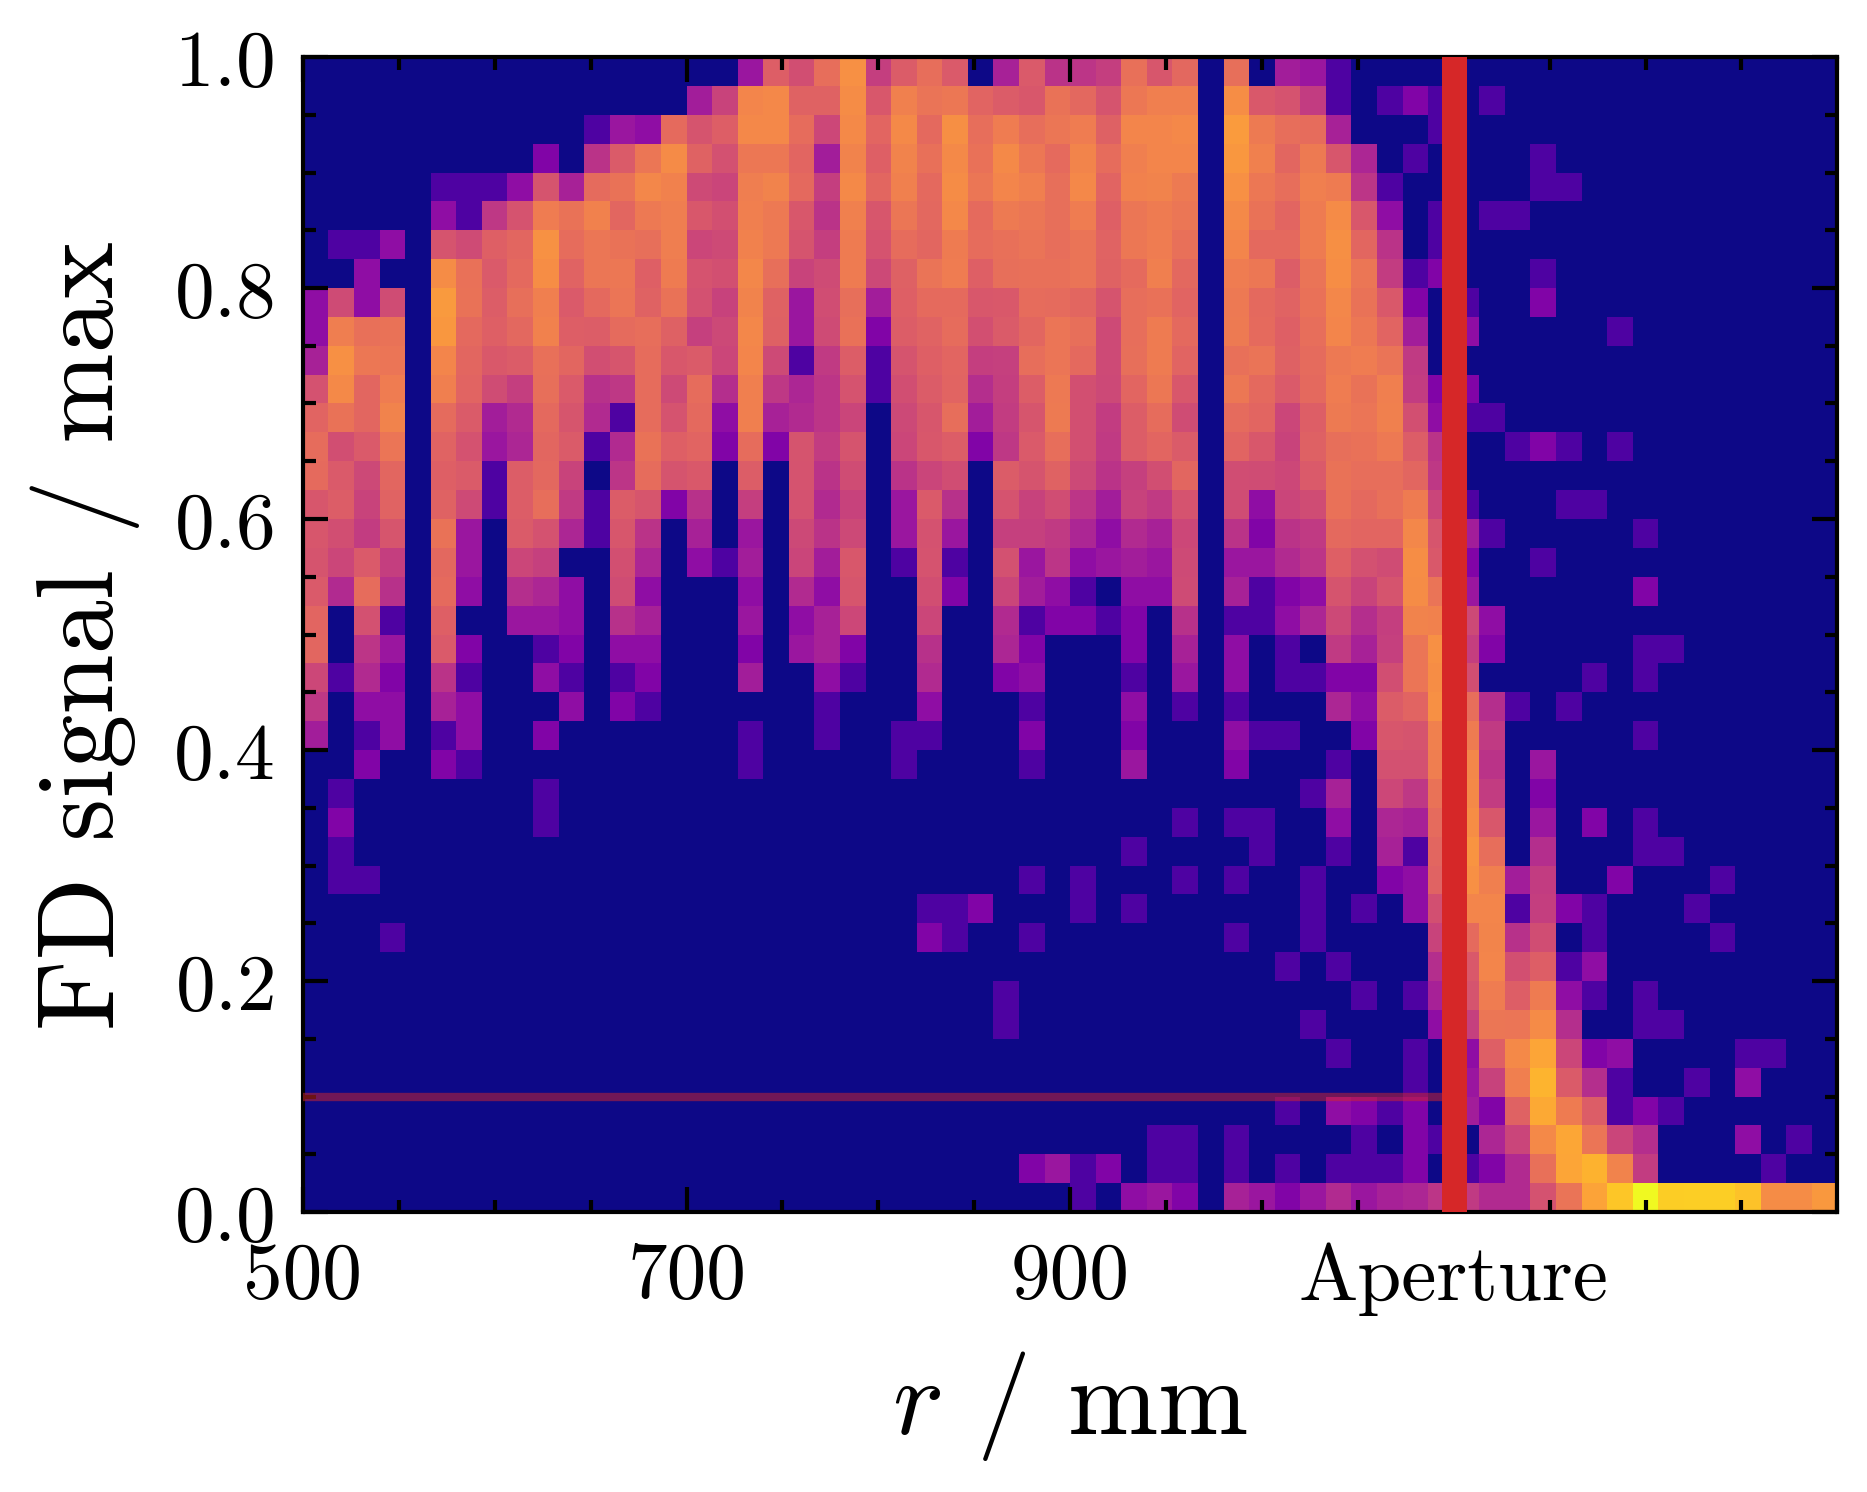
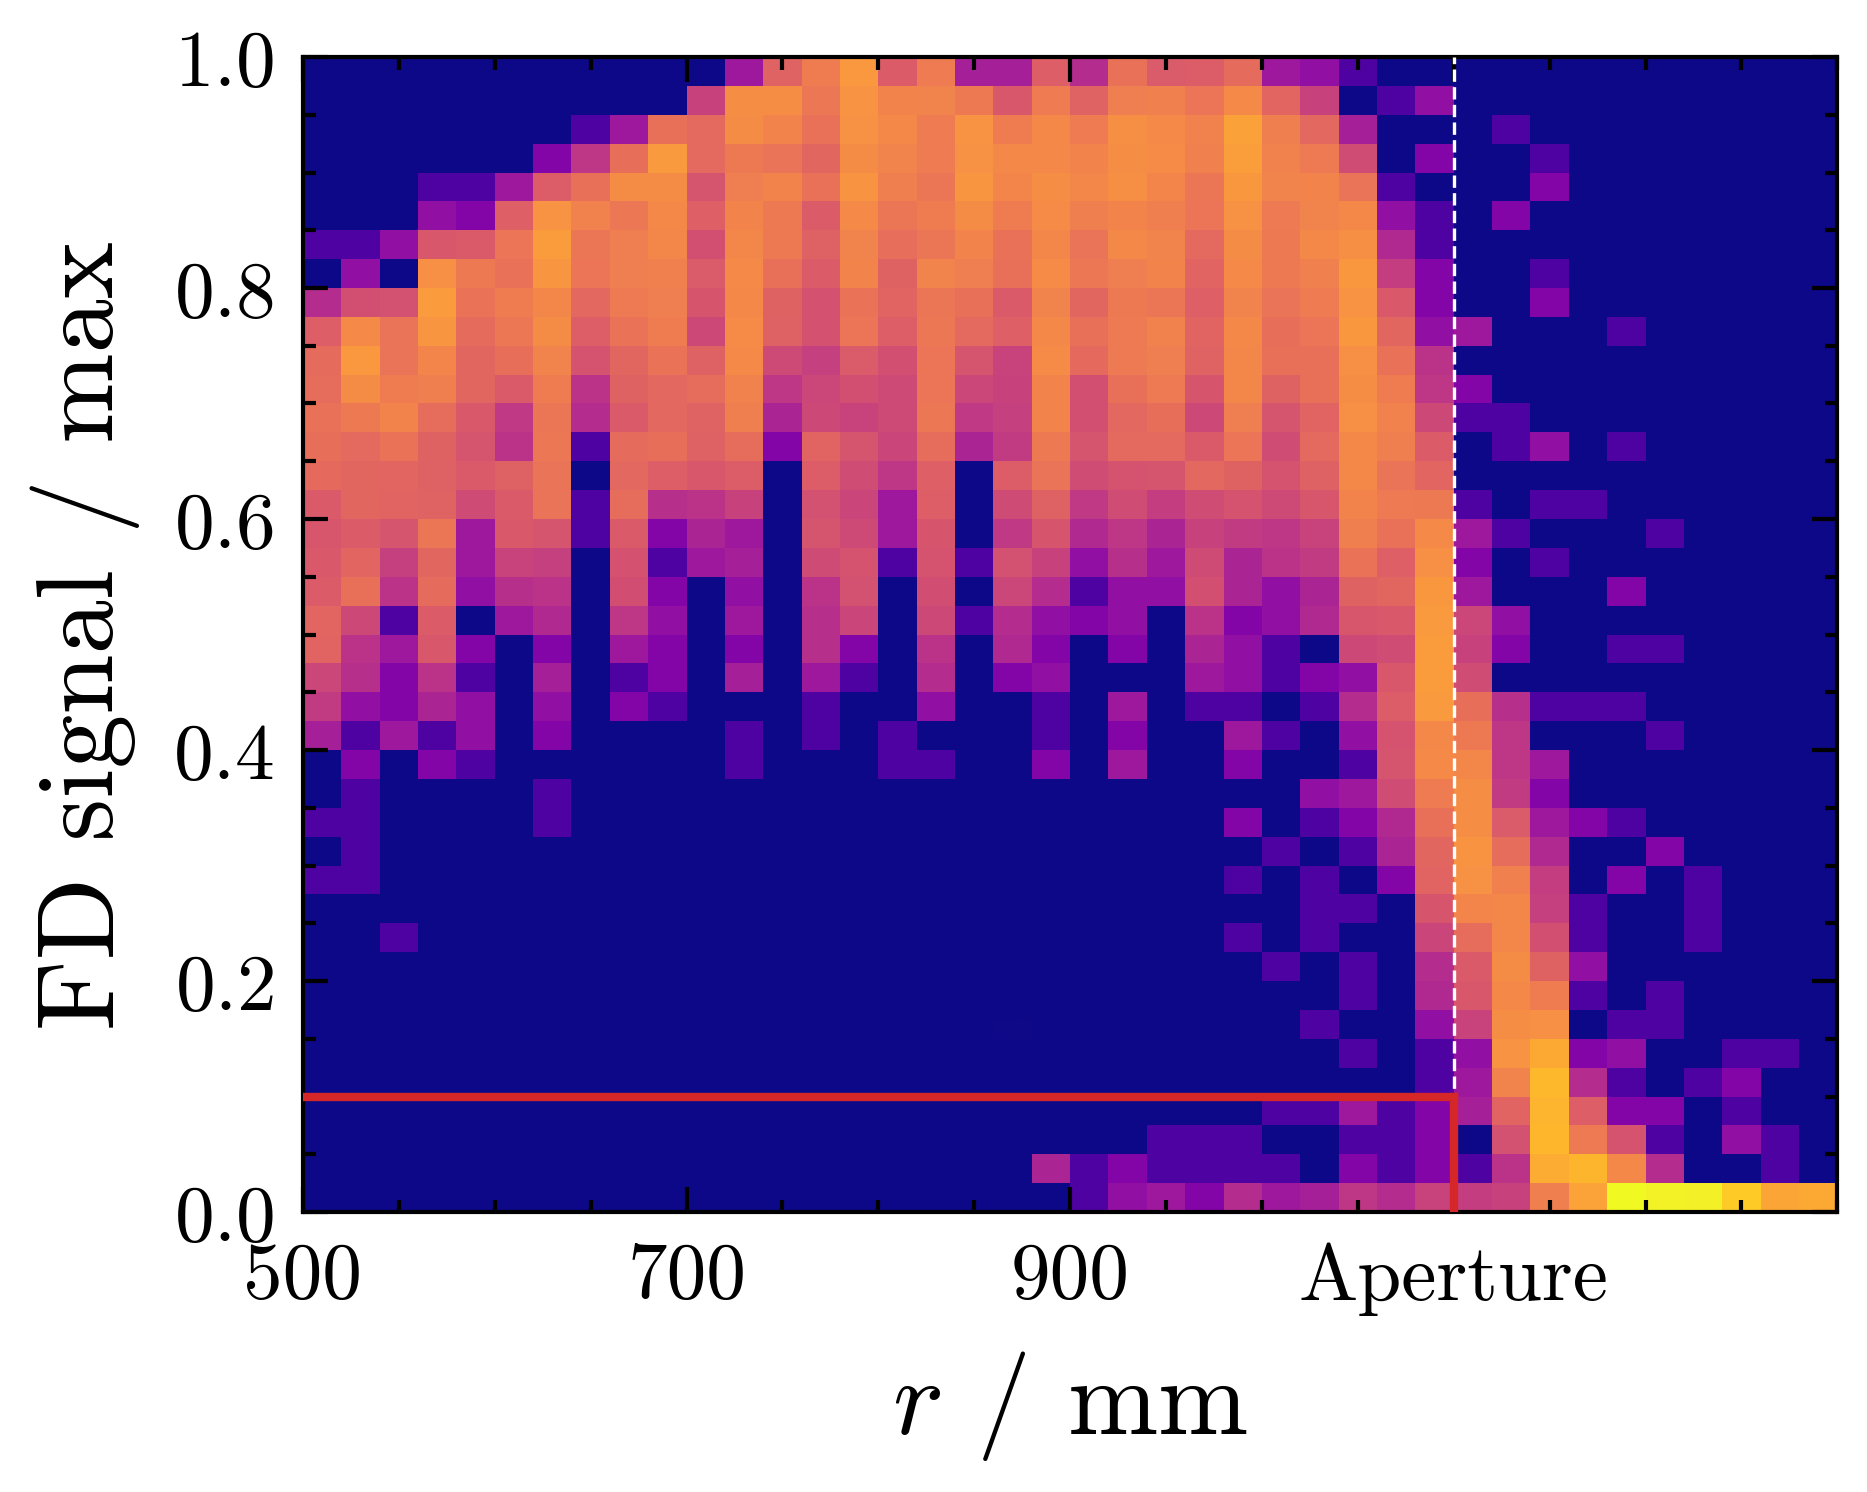
work

diff --git a/chap/04-determination-of-absolute-energy-scale.tex b/chap/04-determination-of-absolute-energy-scale.tex
@@ -1,4 +1,6 @@
-\chapter{A New Fluorescence Energy Scale}
+%! TEX root = ../main.tex
+
+\chapter{Determination of an Absolute Energy Scale}
 \label{chap:xy-scanner}
 
 The analysis in the subsequent chapters heavily relies on information measured 
@@ -277,8 +279,19 @@ between \FD signal strength (and thus accuracy) and long-term operation of the
 \end{itemize}
 \vspace{0.4cm}
 
+Four auxiliary Calibration A measurements are performed with each XY scan to 
+test the \FD camera stability (Ref.~\cref{sssec:xy-qa-camera-sensitivity}). The 
+order of operation goes
+
+\begin{itemize}
+\item \textbf{pre\DAQ}: Closed shutter, same
+\item \textbf{pre XY}: Open shutter, 
+\item \textbf{postXY}:
+\item \textbf{post\DAQ}:
+\end{itemize}
+
 All data shown in the upcoming quality assurance analysis has been preselected
-to adhere to these standards. A list of used measurements can be found in
+to adhere to these standards. A full list of runs can be found in
 \cref{tab:xy-runlist}.
 
 \halflift
@@ -351,7 +364,7 @@ respectively, clearly marked as outliers in this analysis.
 
 The pulse-to-pulse stability of the \CLS during radiance measurements is 
 \SI{2}{\percent} \cite[p.~100]{schaferXYScannerVersatileMethod2023}. We can 
-verify that this assumption holds during XY-Scans as well by examining the data
+verify that this assumption holds during XY-Scans as well by analyzing the data
 from the \PD mounted inside the integrating sphere. 
 
 Examining the same data as in \cref{sssec:xy-qa-temperature}, we identify 
@@ -507,9 +520,8 @@ closely in \cref{sssec:xy-qa-aperture-occlusion}.
   \caption[]{\subref{fig:cls-alignment} Location of the filter center (blue) and
   signal barycenter (red) for all considered XY runs. 
   \subref{fig:occluded-aperture} Radial distribution of camera signal for all 
-  XY runs. The vertical red line signifies the edge of the \FD aperture. Runs 
-  with flashes below the horizontal red line are rejected due to aperture 
-  occlusion.}
+  XY runs. The white dashed line signifies the edge of the \FD aperture. Runs 
+  with flashes within the red rectangle are rejected due to aperture occlusion.}
   \label{fig:measurement-setup-checks}
 \end{figure}
 
@@ -538,12 +550,12 @@ considered XY measurements. None of the examined runs fail this quality check.
 \subsubsection{Aperture Occlusion}
 \label{sssec:xy-qa-aperture-occlusion}
 
-Examining the run rejected in \cref{sssec:xy-qa-filter-estimation}, it becomes 
-apparent that the reason for rejection is the curtain being placed in the camera
-\FOV, and the filter finding algorithm mistaking the shadow left by the curtain
-as an additional filter structure. We can search for more instances of an 
-abnormally occluded aperture by examining outliers in the radial distribution of
-camera signals. 
+Looking more closely at the run rejected in 
+\cref{sssec:xy-qa-filter-estimation}, it becomes apparent that the reason for 
+rejection is the curtain being placed inside the camera \FOV, and the filter 
+finding algorithm mistaking the shadow left by the curtain as an additional 
+filter structure. We can search for more instances of an abnormally occluded 
+aperture by examining outliers in the radial distribution of camera signals. 
 
 For every XY run, we normalize the camera signal of each flash to the maximum 
 camera signal recorded throughout the measurement, and bin them according to the
@@ -551,16 +563,36 @@ radial position of the XY-Scanner at the time of recording.
 \cref{fig:occluded-aperture} shows the histogram of this data over all 
 considered XY runs.
 
-Almost no light is received from flashing positions beyond the aperture. 
+Outside of the region $r<\SI{500}{\milli\meter}$, where the mirror is partially
+occluded by the camera, the signal recorded by the \FD reaches its maximum 
+value, whereas almost no light is received at $r>\SI{1100}{\milli\meter}$, 
+outside the \FD aperture.
+
 Notably, there also exists a small fraction of flashes that are emitted within 
-view of the camera where $<\SI{10}{\percent}$ of light ends up in the \FD. In 
-these cases, we reject the run.
+view of the camera where $<\SI{10}{\percent}$ of light ends up in the \FD. If
+this occurs within a radial distance 
+$\SI{500}{\milli\meter}<r\leq\SI{1100}{\milli\meter}$ we reject the run.
 
 Apart from the XY measurement with the curtain in view, an additional run is 
-identified as problematic due to the obstruction of a single flash, which the
-\FD camera did not register.
+identified as problematic due to the obstruction of a single flash for which the
+\FD camera did not register any signal. Both are shown in \todo{appendix filter bad runs.}
 
 \subsection{Camera Stability}
+
+\subsubsection{Camera Sensitivity}
+\label{sssec:xy-qa-camera-sensitivity}
+
+The (assumed constant) sensitivity of the \FD camera is checked by comparing the
+open shutter Cal A measurements before and after the XY scan. If the camera 
+response to both exposures is the same, it is reasonable to assume that the 
+sensitivity of the pixel-\PMTs remains constant throughout the XY scan. 
+
+For a given XY run, we take the 
+
+\subsubsection{Catch All Sanity Check}
+
+Finally, 
+
 \subsection{Reproducibility}
 
 \section{Telescope Ageing}
@@ -575,5 +607,4 @@ identified as problematic due to the obstruction of a single flash, which the
 \section{FD Energy Scale}
 \label{sec:fd-energy-scale}
 
-
-\section{Summary}
+\section{Absolute Energy Scale}

diff --git a/app/03-additional-figures.tex b/app/03-additional-figures.tex
@@ -5,7 +5,7 @@
 
 \begin{figure}[h]
   \centering
-  \includegraphics[width=0.92\textwidth]{auger-observatory/uub_circuit_diagram.png}
+  \includegraphics[width=0.92\textwidth]{appendix/uub_circuit_diagram.png}
   \caption{The \UUB \acl{PCB} architecture. From
   \cite{suomijarviNewElectronicsSurface2018}.}
   \label{fig:uub-circuit-diagram}

diff --git a/main.tex b/main.tex
@@ -36,6 +36,6 @@ Array of the Pierre Auger Observatory}
     \backmatter
     
     \input{bib/bibliography.tex}            % references and more
-    \input{app/appendix.tex}                % appendices
+%    \input{app/appendix.tex}                % appendices
 
 \end{document}

diff --git a/chap/chapters.tex b/chap/chapters.tex
@@ -3,4 +3,4 @@
 % this file was automatically created
 % via make by ../scripts/gather_chapters
 
-\include{chap/04-XY-scanner.tex}
+\include{chap/04-determination-of-absolute-energy-scale.tex}
